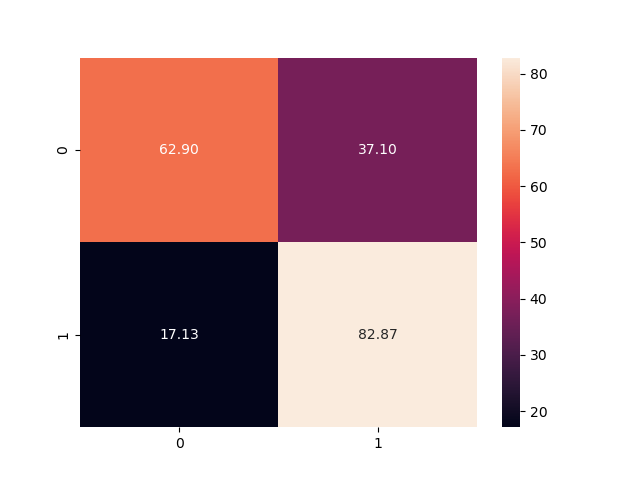
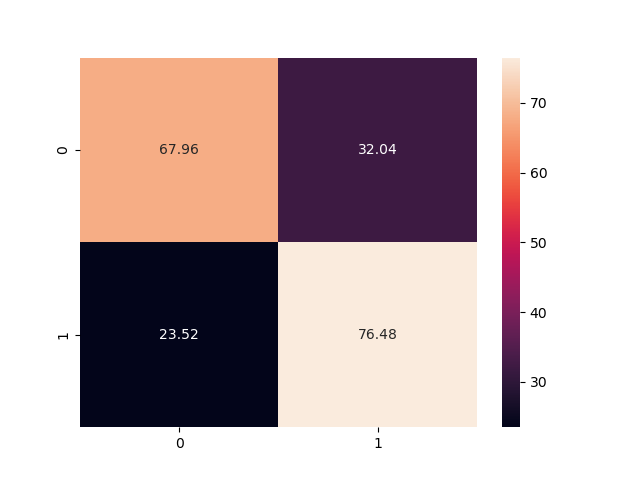
move os augmentations para acontecerem na placa de vídeo ao invés da CPU, melhorando o gargalo

diff --git a/train.py b/train.py
@@ -61,21 +61,19 @@ opt = torch.optim.Adam(
     args.learning_rate,
 )
 
+aug_transform=v2.Compose([
+    v2.Resize(256),
+    v2.Pad(256//2,padding_mode='reflect'),
+    v2.RandomRotation(180,interpolation=v2.InterpolationMode.BILINEAR),
+    v2.CenterCrop((256,256)),
+    model.transforms(),
+])
+
 #%%
 data = ImageLoader(
         imgs_path="/storage/SSD1/.data/milk10k/images/",
         metadata_path="/storage/SSD1/.data/milk10k/metadata.csv",
-        transforms=v2.Compose([
-            v2.Resize(256),
-            v2.Pad(256//2,padding_mode='reflect'),
-            v2.RandomRotation(180,interpolation=v2.InterpolationMode.BILINEAR),
-            v2.CenterCrop((256,256)),
-            # v2.ToImage(),
-            # v2.ToDtype(torch.float32,scale=True),
-            # v2.Normalize([.5]*3,[.5]*3)
-            model.transforms(),
-        ]),
-        # transforms=model.transforms(),
+        transforms=v2.ToImage(),
         train=True
     )
 data = DataLoader(
@@ -83,7 +81,9 @@ data = DataLoader(
     batch_size=args.batch_size,
     shuffle=True,
     num_workers=4,
-    pin_memory=True
+    pin_memory=True,
+    persistent_workers=True,
+    prefetch_factor=4,
 )
 val_data = ImageLoader(
         imgs_path="/storage/SSD1/.data/milk10k/images/",
@@ -116,8 +116,9 @@ for epoch in epoch_bar:
         # print("\nNova etapa")
 
     for img,_,label in batch_bar:
-        img = img.to(gpu)
-        label = label.to(gpu)
+        img = img.to(gpu, non_blocking=True)
+        img = aug_transform(img)
+        label = label.to(gpu, non_blocking=True)
         output = model(img)
         loss_ = lce(output,label)
         opt.zero_grad()
